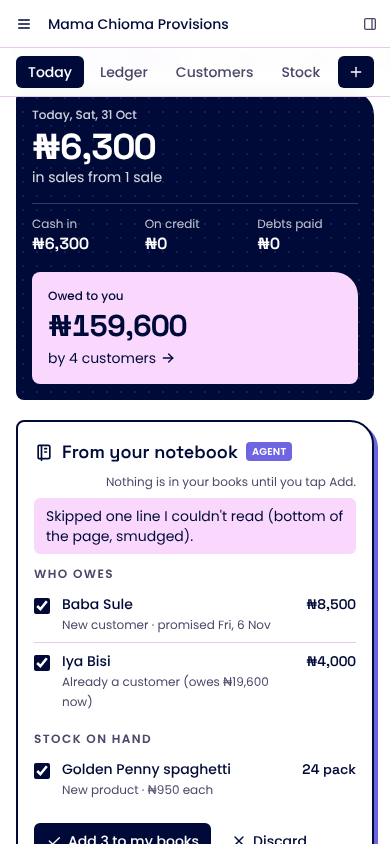
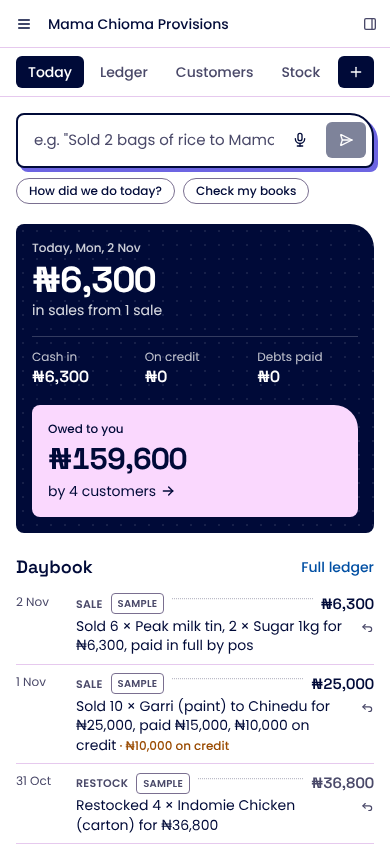
README: demo video, current agent setup (Groq, eight tools), fresh Today screenshot; demo notes match the app

diff --git a/README.md b/README.md
@@ -4,27 +4,34 @@
 
 **Live app: [shop-ledger-peach.vercel.app](https://shop-ledger-peach.vercel.app)** (tap **Try the demo**: a private sample shop opens in seconds, no sign-up)
 
+**Demo video: [Shop Ledger walkthrough on Clips](https://clips.agent-native.com/share/aMVt1nptuM2K)**
+
 ![Shop Ledger welcome screen](docs/screenshots/welcome.png)
 
 Millions of shops in Nigeria and across Africa still keep sales, stock and "who owes what" in an exercise book. Credit ("put it on my account") is how many customers buy, and chasing it is awkward and easy to forget. Shop Ledger lets the owner say what happened, the way they would say it:
 
 > "I sell 2 bag rice give Mama Ngozi, she pay 50k, remain go come Friday."
 
-The agent can record the sale, take the bags out of stock, and put the unpaid balance on Mama Ngozi's account with Friday as the promised day. The Today screen then updates. Money and stock rules are enforced by the server; reminder drafts and typed old-balance imports need the owner's approval.
+The agent records the sale, takes the bags out of stock, and puts the unpaid balance on Mama Ngozi's account with Friday as the promised day. The Today screen updates as it writes. Money and stock rules are enforced by the server, and nothing leaves the shop (a reminder) or enters the books from the old notebook until the owner approves it.
+
+![Today: the ask bar, today's figures read straight from the books, the evening close and the daybook](docs/screenshots/today.png)
 
 ## What it does
 
 | Feature | What happens |
 | --- | --- |
-| **Talk like you talk** | Type or speak in English, Nigerian Pidgin, Yoruba, Hausa or Igbo ("bashi", "gbese", "e don pay", "5k"). The agent records sales, payments, restocks and stock counts, and replies in the same language. |
-| **Bring in old balances** | Type old debts or stock counts to the agent. It proposes entries for the owner to review and add from Today. |
+| **Talk like you talk** | Type or speak in English, Nigerian Pidgin, Yoruba, Hausa or Igbo ("bashi", "gbese", "e don pay", "5k"). The agent records sales and payments, answers questions about the day, credit and the books, and replies in the same language. If the agent can't finish, the owner's words stay in the box with a link to enter the sale by hand. |
+| **Bring in old balances** | Type old debts or stock counts from the paper notebook to the agent. It proposes entries; they wait on Today until the owner ticks them and taps **Add**. |
 | **Credit sense** | Before more credit goes out, the server checks the customer's own history: what they owe, how late they are, the most they've owed and paid back. A late payer or a sale over their limit is stopped with the reason, and goes through only when the owner says so. |
 | **Evening close** | At 7 pm Lagos the day closes by itself: totals, who is late, and a WhatsApp reminder **draft** for each late payer. The owner can also close the day from Today or by asking. |
 | **Learns your shop** | "Mama Pikin na Mama Ngozi", "one bag is the rice". Nicknames are saved and understood by every action afterwards. A nickname can belong to one customer or product only. |
 | **Reminders the owner sends** | The agent drafts; only the owner can approve, and approving opens WhatsApp with the message ready to send from their own phone. |
+| **Quick checks** | **How did we do today?** and **Check my books** read the books directly (`get-shop-overview`, `reconcile-ledger`), so they answer instantly even when the AI model is slow. |
 | **Everything by hand too** | New sale, payments, restock, stock counts, voids, customers and products all have screens. Each entry shows who made it: you, the agent, the nightly job or sample data. |
 
-![Credit check in the sale dialog](docs/screenshots/credit-check.png)
+| Credit check before a sale | A customer's account and credit standing |
+| --- | --- |
+| ![Credit check in the sale dialog](docs/screenshots/credit-check.png) | ![Customer page with credit standing and a nickname](docs/screenshots/customer.png) |
 
 ## How it uses Agent-Native
 
@@ -33,13 +40,13 @@ The agent can record the sale, take the bags out of stock, and put the unpaid ba
 | Actions as the single source of truth | 31 shop actions (`actions/*.ts`), defined once. The screens call them through the client hooks, the agent calls them as tools, and the CLI runs them (`pnpm action …`). `scripts/verify-rules.sh` proves the rules through the CLI. |
 | Rules in actions, typed errors | `insufficient_stock`, `credit_needs_customer`, `overpayment`, `credit_check`, `nickname_taken`, `void_conflict`… The agent reads the error and explains it with the real figure instead of retrying with invented numbers. |
 | Owner-only actions (`uiOnly`) | `approve-reminder`, `mark-reminder-sent` and `apply-notebook-import` run only for a signed-in person in the app. The agent, MCP clients, the CLI and raw HTTP get `403 ui_capability_required`. |
-| Agent chat plugin | A system prompt covering the books' rules, credit sense, typed old balances, five languages, the evening close and nicknames, plus 16 tools loaded from the start. |
+| Agent chat plugin | A short bookkeeping prompt (rules, credit sense, typed old balances, five languages, the evening close, nicknames) and a focused set of eight shop tools: `get-shop-overview`, `record-sale`, `record-payment`, `reconcile-ledger`, `get-credit-standing`, `close-the-day`, `propose-notebook-import`, `add-nickname`. Tool results are capped at 1,800 characters so a whole turn fits Groq's free tier (8,000 tokens a minute). |
 | UI → agent hand-off (`sendToAgentChat`) | The ask bar, voice input, and "Ask the agent" links. The two Today quick checks call their read-only actions directly. |
-| Context awareness | Navigation state (`shopTab`, `customerId`), `view-screen` and `navigate`, so the agent knows what the owner is looking at and can move the screen. |
+| Live sync and context | `useDbSync` refreshes the screens while the agent writes. The shop screens publish their navigation state (`shopTab`, `customerId`) to the framework's application state. |
 | SQL, migrations, access control | Drizzle schema with additive migrations (v1–v3); `ownerEmail`/`orgId` columns with the framework's `accessFilter`, so each account sees only its own shop. `agent-native doctor` is clean (no unscoped queries, no credentials from env). |
 | Auth | Framework accounts. **Try the demo** uses the framework's own register and login endpoints to make a private throwaway account. |
 | Jobs | The evening close rides on the framework's daily sweep (Vercel Cron at 18:00 UTC, `CRON_SECRET` checked with `readDeployCredentialEnv`). |
-| Model choice | Supports configured providers, including Groq. The production provider and a complete agent run still need verification. |
+| Model choice | Groq `openai/gpt-oss-120b` (text and tool calls) through `AGENT_ENGINE=ai-sdk:groq` and `AGENT_MODEL`. Other providers the framework supports work the same way. |
 
 ## Rules the server enforces
 
@@ -57,14 +64,15 @@ These live in the actions, not in the prompt:
 
 ## Proof
 
-| Check | Command | Last result (Oct 31, 2026) |
+| Check | Command | Last result |
 | --- | --- | --- |
-| Unit tests: money, matching and nicknames, time, reminder machine | `pnpm exec vitest run` | 19/19 passed |
-| Ledger rules against a real database | `bash scripts/verify-rules.sh` (dev server running) | 31/31 passed |
-| Types | `pnpm typecheck` | clean |
-| Framework guards (scoping, credentials, migrations…) | `pnpm agent-native:doctor` | clean |
-| 7 pm hook | `curl` the sweep path with a wrong and a right cron secret | wrong → 401, nothing closed; right → 200, every active shop closed |
-| Browser (Playwright) | welcome card, demo, sale, credit warning, typed import review, evening close, nicknames, reminders, phone width | passed locally on Oct 31; raw HTTP approval refused with 403 |
+| Unit tests: money, matching and nicknames, time, reminder machine | `pnpm exec vitest run` | 19/19 passed (Oct 31) |
+| Ledger rules against a real database | `bash scripts/verify-rules.sh` (dev server running) | 31/31 passed (Oct 31) |
+| Types | `pnpm typecheck` | clean (Nov 2) |
+| Framework guards (scoping, credentials, migrations…) | `pnpm agent-native:doctor` | clean (Nov 2) |
+| 7 pm hook | `curl` the sweep path with a wrong and a right cron secret | wrong → 401, nothing closed; right → 200, every active shop closed (Oct 31) |
+| Browser (Playwright) | welcome card, demo, sale, credit warning, typed import review, evening close, nicknames, reminders, phone width | passed locally (Oct 31); raw HTTP approval refused with 403 |
+| Production agent | a sample shop asks for the day's overview on the live site | Groq called `get-shop-overview`, replied, no errors (Nov 2) |
 
 ## Real vs. not yet verified
 
@@ -74,7 +82,7 @@ These live in the actions, not in the prompt:
 | Screens and the demo entry | **Real**, verified in a headless browser; live at the link above |
 | Hosting | **Real**: Vercel (functions in `cle1`) + Neon Postgres |
 | WhatsApp hand-off | **Real** `wa.me` link with the text filled in; the owner sends it from WhatsApp |
-| The agent's conversations (local languages and tool choice) | A live run failed on Nov 1. A complete production agent run is not yet verified. |
+| The agent on the live site | **Real** on Groq: a production overview conversation completed on Nov 2, and the [demo video](https://clips.agent-native.com/share/aMVt1nptuM2K) shows the agent in use. Answers depend on the model; other agent flows have no automated production check. |
 | The 7 pm close on Vercel Cron | Configured; verified locally with the same request Vercel sends |
 
 ## Accounts
@@ -90,7 +98,7 @@ pnpm install          # if node-pty fails to build: npm_config_nodedir=$(dirname
 pnpm dev              # open the printed URL and tap "Try the demo"
 ```
 
-Set one AI key in `.env` (`GOOGLE_GENERATIVE_AI_API_KEY`, `OPENAI_API_KEY`, `ANTHROPIC_API_KEY` or `OPENROUTER_API_KEY`) to talk to the agent. The ledger, screens and rules work without one.
+To talk to the agent, copy `.env.example` to `.env` (it selects Groq and the model) and add `GROQ_API_KEY`. The ledger, screens, rules and quick checks work without a key.
 
 ### Deploy (Vercel + Neon)
 
@@ -98,7 +106,7 @@ Set one AI key in `.env` (`GOOGLE_GENERATIVE_AI_API_KEY`, `OPENAI_API_KEY`, `ANT
 
 1. Import the GitHub repo into Vercel (framework: Other).
 2. Vercel → Storage → add **Neon** and connect it; it sets `DATABASE_URL`.
-3. Add environment variables: `BETTER_AUTH_SECRET` and `CRON_SECRET` (each `openssl rand -hex 32`), `AGENT_NATIVE_RELEASE_MIGRATIONS=1`, and one AI key.
+3. Add environment variables: `BETTER_AUTH_SECRET` and `CRON_SECRET` (each `openssl rand -hex 32`), `AGENT_NATIVE_RELEASE_MIGRATIONS=1`, `AGENT_ENGINE=ai-sdk:groq`, `AGENT_MODEL=openai/gpt-oss-120b`, and `GROQ_API_KEY` (as a sensitive variable).
 4. Deploy and open the URL.
 
 The daily sweep (and the evening close) runs at 18:00 UTC, which Vercel's free plan allows.
@@ -108,16 +116,16 @@ The daily sweep (and the evening close) runs at 18:00 UTC, which Vercel's free p
 | Path | What |
 | --- | --- |
 | `actions/` | Every operation, shared by screens, agent and CLI |
-| `server/lib/` | Ledger, credit sense, notebook imports, evening close, nicknames, matching, money and time |
+| `server/lib/` | Ledger, credit sense, typed old-balance imports, evening close, nicknames, matching, money and time |
 | `server/plugins/` | Migrations, the agent's instructions and tools, branding |
 | `server/middleware/evening-close.ts` | The 7 pm hook on the framework's sweep |
 | `app/routes/shop*` and `app/components/shop/` | Today, Ledger, Customers, Stock and their parts |
 | `scripts/verify-rules.sh` | The 31 rule checks |
-| `docs/DEMO.md` | The demo script |
+| `docs/DEMO.md` | The demo script ([video](https://clips.agent-native.com/share/aMVt1nptuM2K)) |
 
 ## Pre-existing work and what was built during the hackathon
 
-- **Pre-existing:** the open-source [Agent-Native](https://github.com/BuilderIO/agent-native) Chat starter (`npx @agent-native/core create --template starter`): app shell, auth, agent chat, sidebar, UI primitives, and its `navigate`, `view-screen`, `run` and `provider-api-request` actions. The brand tokens and fonts (Space Grotesk, Poppins) come from Mag's own design system. Libraries are listed in `package.json`.
+- **Pre-existing:** the open-source [Agent-Native](https://github.com/BuilderIO/agent-native) Chat starter (`npx @agent-native/core create --template starter`): app shell, auth, agent chat, sidebar, UI primitives, and its `navigate`, `view-screen`, `run` and `provider-api-request` actions. The brand tokens come from Mag's own design system; the fonts (Space Grotesk, Poppins) are open source. Libraries are listed in `package.json` (React Router, Nitro, Drizzle ORM, Tailwind CSS, Zod, Tabler Icons, Sonner and others). Services: Vercel, Neon Postgres, Groq.
 - **Built during the event (from Oct 31, 2026):** everything under `server/db`, `server/lib`, `server/middleware/evening-close.ts`, `server/plugins/db.ts`, the 31 shop actions, `app/routes/shop*`, `app/components/shop/`, `app/components/brand/`, the logo, illustrations and sign-in page, the theme changes in `app/global.css`, the agent instructions, the sample data, the tests and `scripts/verify-rules.sh`. See the git history.
 
 All sample people, phone numbers and figures are invented.

diff --git a/docs/DEMO.md b/docs/DEMO.md
@@ -1,13 +1,13 @@
 # Demo script (about 3½ minutes)
 
-Record with [Clips](https://clips.agent-native.com) on the live app, **https://shop-ledger-peach.vercel.app** (tap **Try the demo**).
+**Video: [Shop Ledger walkthrough on Clips](https://clips.agent-native.com/share/aMVt1nptuM2K)**, recorded on the live app, **https://shop-ledger-peach.vercel.app** (tap **Try the demo**).
 
 The video shows seven Agent-Native moments:
 
 1. **One set of actions, two hands.** The agent records a sale from a sentence; the same rule then fires when you use the New sale screen by hand.
 2. **The screen updates as the agent writes.** No refresh: the daybook line appears with an Agent tag.
 3. **Rules live in the server, not the prompt.** The credit check stops a late payer for the agent and for the screen alike.
-4. **The agent sees and moves the screen.** "Show me Chinedu" opens his page; "what's his credit like?" is answered about the customer on screen.
+4. **The agent reads the same books.** "What's Chinedu's credit like?" is answered from his own payment history through `get-credit-standing`.
 5. **The agent hands work to the owner, never the reverse.** Reminders are drafts only the owner can approve.
 6. **It runs without being asked.** The evening close runs on the framework's daily job at 7 pm and drafts reminders.
 7. **It learns the shop.** A nickname taught once works in every action after.
@@ -18,11 +18,11 @@ The video shows seven Agent-Native moments:
 | 0:15 | `I sell 2 bag rice give Mama Ngozi, she pay 50k, remain go come Friday` → daybook line with the Agent tag | 1, 2 |
 | 0:45 | `give Chinedu 2 paint garri on credit` → the agent says he is 12 days late and asks → `yes, go ahead` | 3 |
 | 1:15 | **New sale** by hand for Chinedu → the same warning | 1, 3 |
-| 1:30 | `show me Chinedu` → his page opens; `what's his credit like?` | 4 |
+| 1:30 | `what's Chinedu's credit like?` → answered from his payment history | 4 |
 | 1:50 | **How did we do today?** → direct read-only figures | Usefulness |
 | 2:20 | `Mama Pikin na Mama Ngozi`, then `Mama Pikin pay 20k transfer` | 7 |
 | 2:40 | **Close the day now**; ask the agent to approve a reminder (it can't); **Approve** → WhatsApp opens | 5, 6 |
 | 3:05 | **Check my books** → the books balance | 3 |
 | 3:20 | End on Today | All |
 
-Before recording: verify a complete production agent sale and credit-check flow. Record from a fresh private window so the sample shop is clean.
+To record again: check a production agent sale and the credit check first, and record from a fresh private window so the sample shop is clean.
